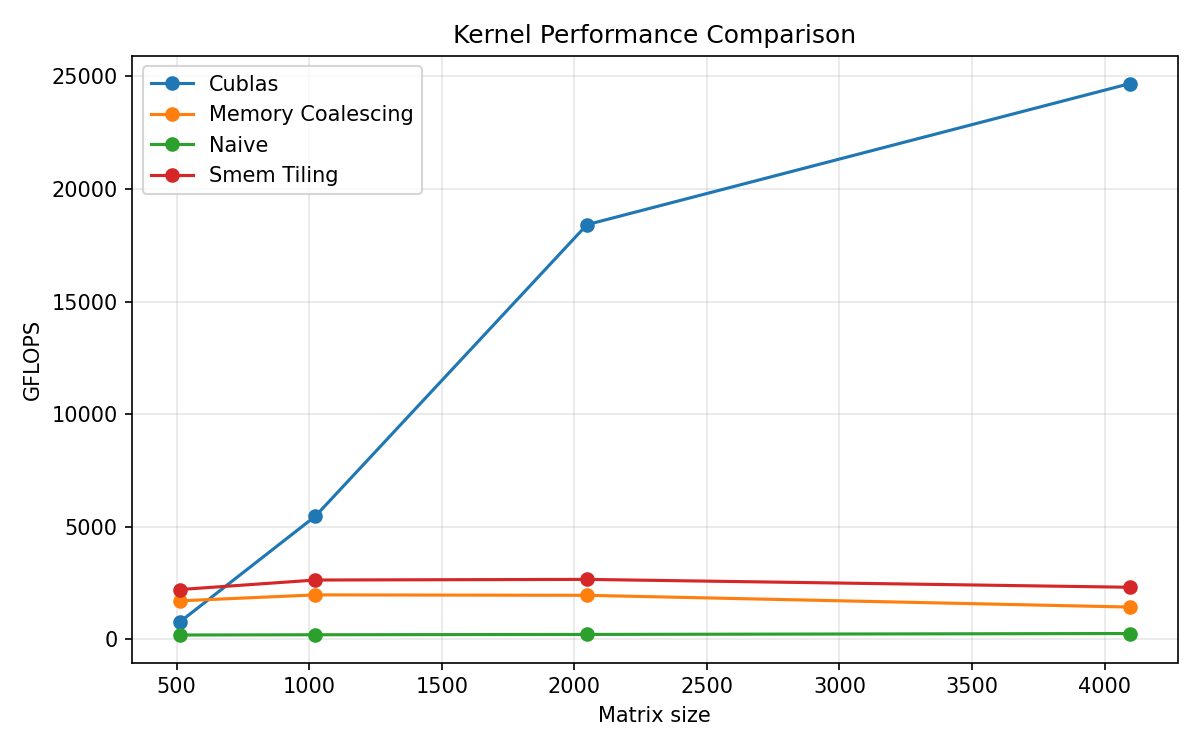
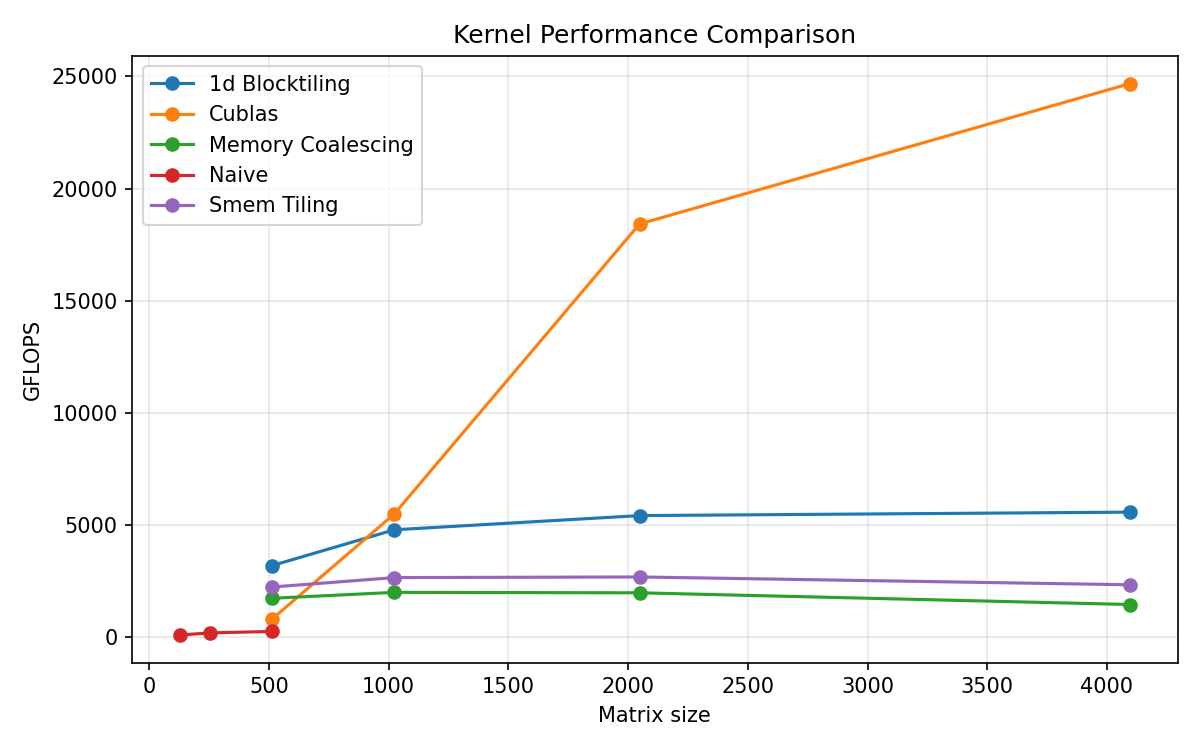
added 1d_blocktiling

diff --git a/src/kernel_runner.cpp b/src/kernel_runner.cpp
@@ -59,8 +59,6 @@ std::vector<float> KernelRunner::PerformBenchmark(std::shared_ptr<Kernel> kernel
         [&] {
             kernel->launch(dA, dB, dC);
         });
-
-
 };
 
 bool KernelRunner::PerformCheck(std::shared_ptr<Kernel> kernel) {
@@ -69,16 +67,27 @@ bool KernelRunner::PerformCheck(std::shared_ptr<Kernel> kernel) {
     int iterationsNb = 1;
     BenchmarkCudaKernel(warmupNb, iterationsNb,
         [&] {
-            std::cout << "launch\n";
-            std::cout << host::Matrix::CopyFromDevice(dA) << std::endl;
-            std::cout << host::Matrix::CopyFromDevice(dB) << std::endl;
-            std::cout << host::Matrix::CopyFromDevice(dC) << std::endl;
             kernel->launch(dA, dB, dC);
-            std::cout << "end\n";
+        });
+
+
+    auto expected_C = host::Matrix::CopyFromDevice(dA) * host::Matrix::CopyFromDevice(dB);
+    auto performed_C = host::Matrix::CopyFromDevice(dC);
+
+    return expected_C == performed_C;
+};
+
+void KernelRunner::PerformAndPrint(std::shared_ptr<Kernel> kernel) {
+    device::Matrix dC({ dA.shape.rows, dB.shape.cols });
+    int warmupNb = 0;
+    int iterationsNb = 1;
+    BenchmarkCudaKernel(warmupNb, iterationsNb,
+        [&] {
+            kernel->launch(dA, dB, dC);
         });
 
     auto expected_C = host::Matrix::CopyFromDevice(dA) * host::Matrix::CopyFromDevice(dB);
     auto performed_C = host::Matrix::CopyFromDevice(dC);
-    std::cout << performed_C << std::endl;
-    return expected_C == host::Matrix::CopyFromDevice(dC);
+    std::cout << "Expected:\n" << expected_C << std::endl;
+    std::cout << "Performed:\n" << performed_C << std::endl;
 };

diff --git a/src/main.cpp b/src/main.cpp
@@ -1,19 +1,20 @@
 #include "benchmark_collector.hpp"
 #include "kernel_runner.hpp"
+#include "kernels/1d_blocktiling.cuh"
 #include "kernels/cublas.cuh"
 #include "kernels/naive.cuh"
 #include "kernels/memory_coalescing.cuh"
 #include "kernels/smem_tiling.cuh"
+#include "kernels/1d_blocktiling.cuh"
 #include <memory>
 
 
 int main(int argc, char** argv) {
-    // BenchmarckCollector::PerformAndFormat(std::make_shared<CublasKernel>(), "./results/cublass.md");
-    // BenchmarckCollector::PerformAndFormat(std::make_shared<NaiveKernel>(), "./results/naive.md");
-    // BenchmarckCollector::PerformAndFormat(std::make_shared<MemoryCoalesingKernel>(),  "./results/memory_coalescing.md");
-    // BenchmarckCollector::PerformAndFormat(std::make_shared<SharedMemoryTilingKernel>(),  "./results/smem_tiling.md");
-    KernelRunner aRunner;
-    aRunner.SetUpDeviceData(10);
-    aRunner.PerformCheck(std::shared_ptr<NaiveKernel>());
+    BenchmarckCollector::PerformAndFormat(std::make_shared<BlockTiling1DKernel>(), "./results/1d_blocktiling.md");
+    BenchmarckCollector::PerformAndFormat(std::make_shared<CublasKernel>(), "./results/cublass.md");
+    BenchmarckCollector::PerformAndFormat(std::make_shared<NaiveKernel>(), "./results/naive.md");
+    BenchmarckCollector::PerformAndFormat(std::make_shared<MemoryCoalesingKernel>(),  "./results/memory_coalescing.md");
+    BenchmarckCollector::PerformAndFormat(std::make_shared<SharedMemoryTilingKernel>(),  "./results/smem_tiling.md");
+
     return 0;
 }

diff --git a/src/benchmark_collector.cpp b/src/benchmark_collector.cpp
@@ -54,8 +54,10 @@ void BenchmarckCollector::PerformAndFormat(std::shared_ptr<Kernel> kernel, std::
     const int test_size = 1 << 8;
     if(!DoPerformCheck(test_size, kernel)) {
         output << "Kernel result is differ from the expected one\n\n";
+        return;
     } else if (!DoPerformCheck(test_size / 2, test_size, test_size * 2, kernel)) {
         output << "Kernel failed for non-squared matrix\n\n";
+        return;
     } else {
         output << "Kernel has been testes, results are within a precision\n\n";
     }
@@ -82,6 +84,10 @@ void BenchmarckCollector::PerformAndFormat(std::shared_ptr<Kernel> kernel, std::
 
 void BenchmarckCollector::PerformAndFormat(std::shared_ptr<Kernel> kernel, const std::string& filename) {
     std::ofstream output(filename);
+    if (!output.good()) {
+        std::cerr << filename << " failed to open\n";
+        return;
+    }
     PerformAndFormat(kernel, output);
 
     if(output.good()) {

diff --git a/src/host/matrix.cpp b/src/host/matrix.cpp
@@ -28,6 +28,19 @@ Matrix Matrix::CreateRandom(Shape shape, fp_t deviation) {
     return matrix;
 };
 
+Matrix Matrix::CreateConsecutive(Shape shape) {
+    Matrix matrix(shape);
+    fp_t i = 1;
+    std::generate(matrix.data, matrix.data + matrix.shape.elements_nb(), [&]() {
+        fp_t r = i;
+        i += fp_t(1);
+        return r;
+        });
+
+    return matrix;
+};
+
+
 Matrix Matrix::CopyFromDevice(const device::Matrix &deviceMatrix) {
     Matrix matrix(deviceMatrix.shape);
     CHECK_CUDA(cudaMemcpy(matrix.data, deviceMatrix.data, deviceMatrix.bytes_size(), cudaMemcpyDeviceToHost));

diff --git a/inc/host/matrix.hpp b/inc/host/matrix.hpp
@@ -22,8 +22,8 @@ struct Allocator : public FPType {
 class Matrix : public MatrixData<Allocator> {
 public:
     static Matrix CreateRandom(Shape shape, fp_t deviation = 10);
+    static Matrix CreateConsecutive(Shape shape);
     static Matrix CopyFromDevice(const device::Matrix& deviceMatrix);
-
 protected:
     using MatrixData<Allocator>::MatrixData;
 };

diff --git a/inc/kernel.hpp b/inc/kernel.hpp
@@ -15,10 +15,7 @@ public:
         assert(dA.shape.rows == dC.shape.rows);
         assert(dB.shape.cols == dC.shape.cols);
         assert(dA.shape.cols == dB.shape.rows);
-
-        std::cout << "o\n";
         launch(dA.data, dB.data, dC.data, dC.shape.rows, dC.shape.cols, dA.shape.cols);
-        std::cout << "o\n";
     }
 
 private:

diff --git a/inc/kernel_runner.hpp b/inc/kernel_runner.hpp
@@ -13,6 +13,7 @@ public:
     void SetUpDeviceData(int n);
 
     std::vector<float> PerformBenchmark(std::shared_ptr<Kernel> kernel);
+    void PerformAndPrint(std::shared_ptr<Kernel> kernel);
     bool PerformCheck(std::shared_ptr<Kernel> kernel);
 
 private:
